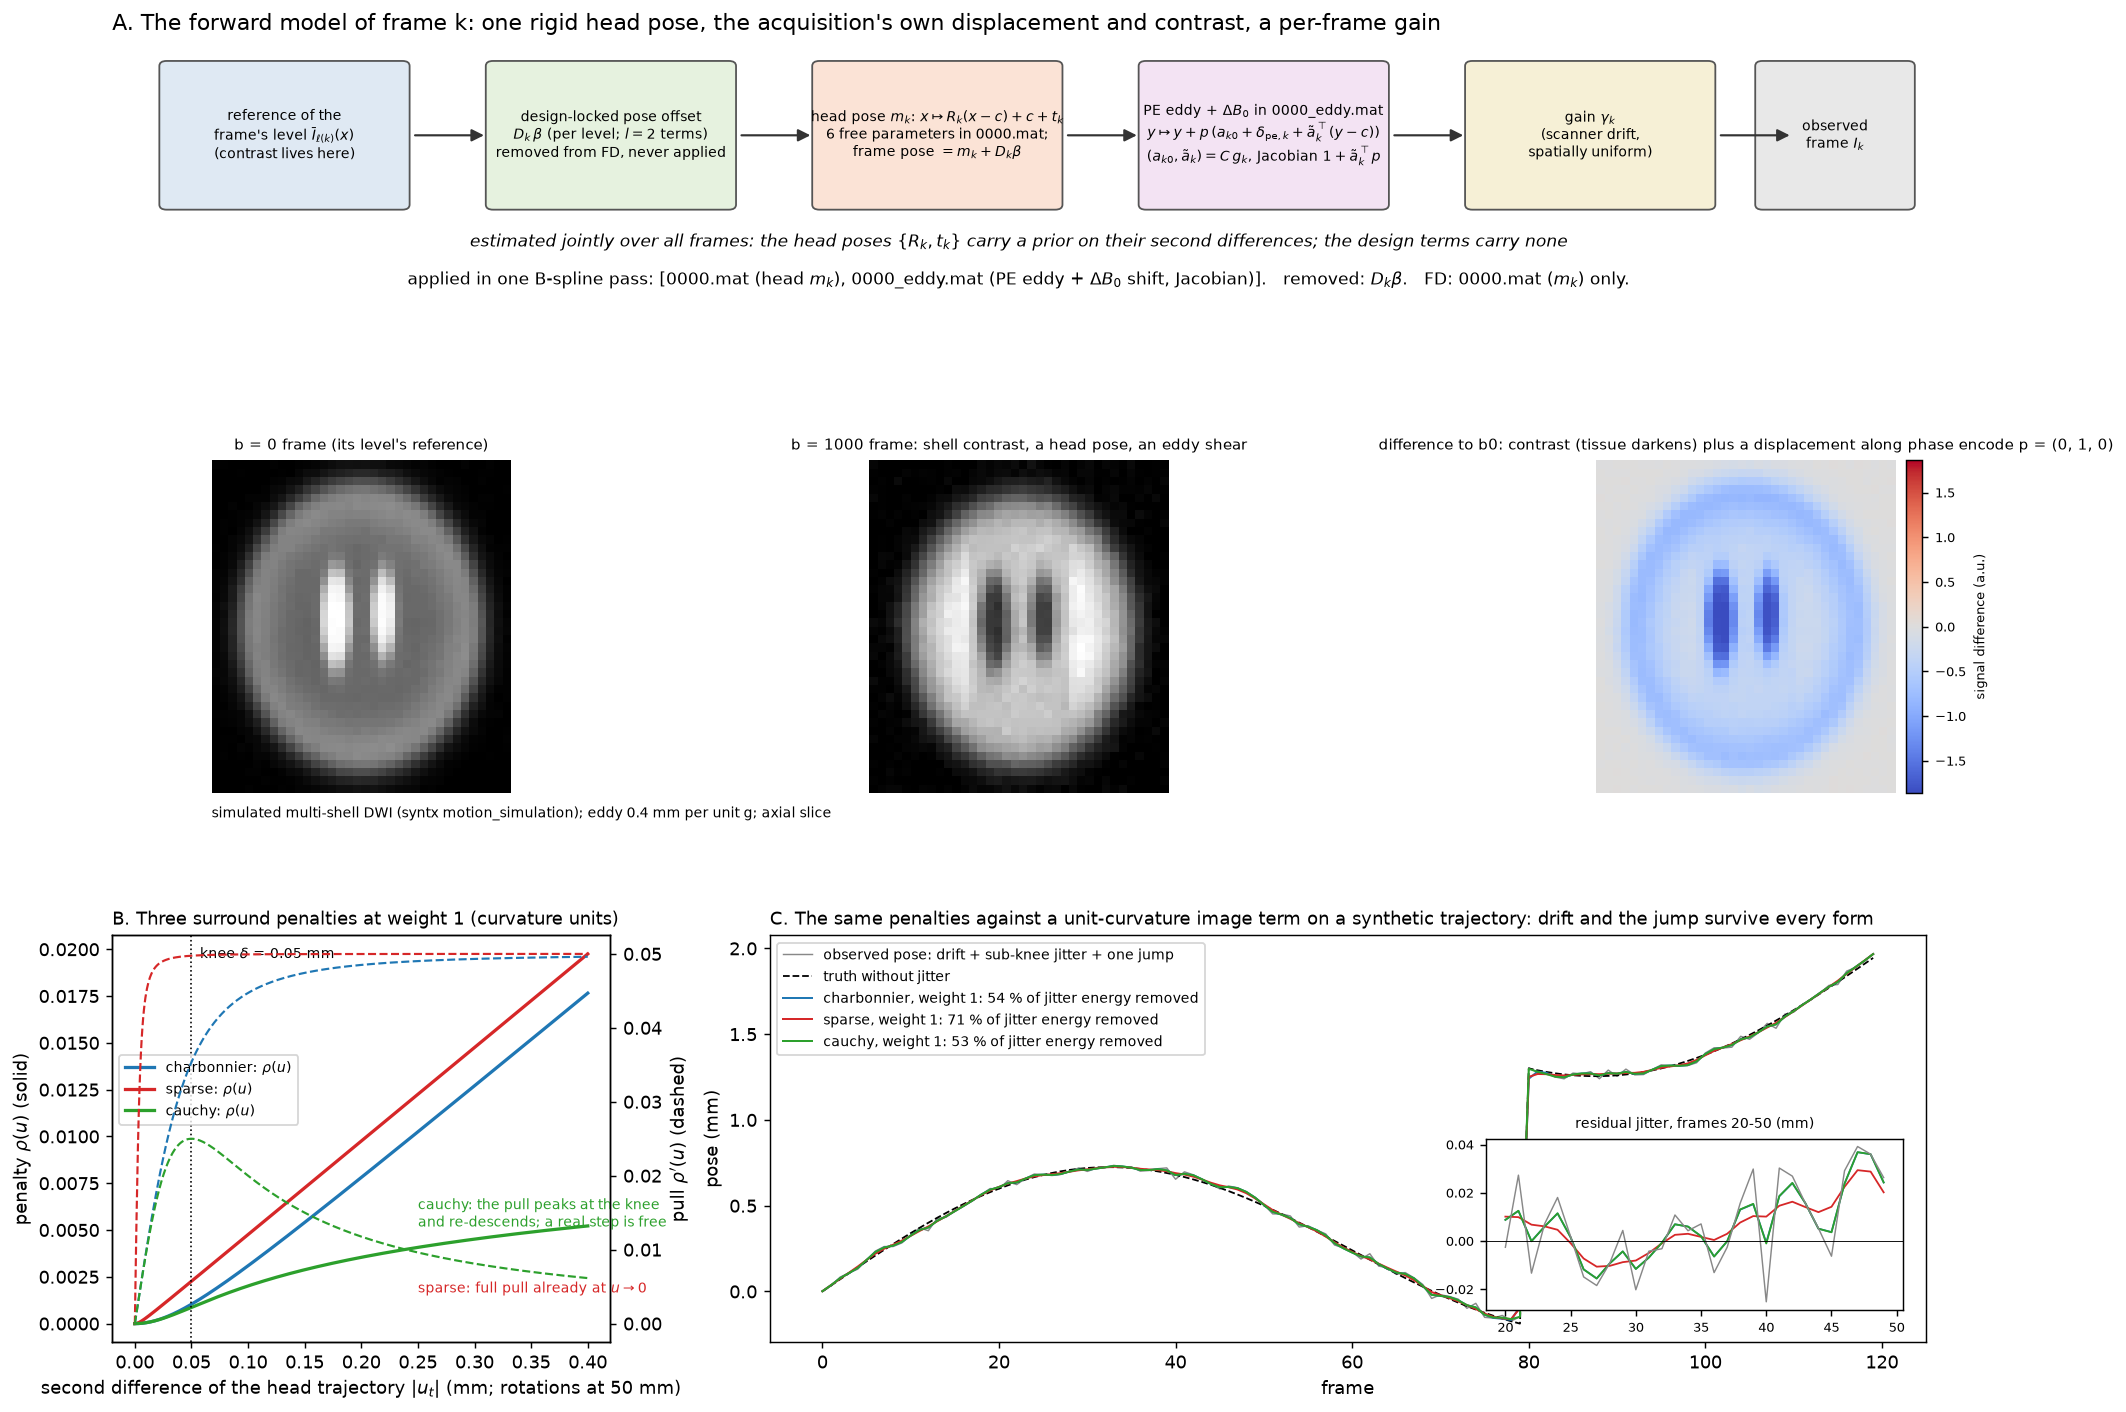
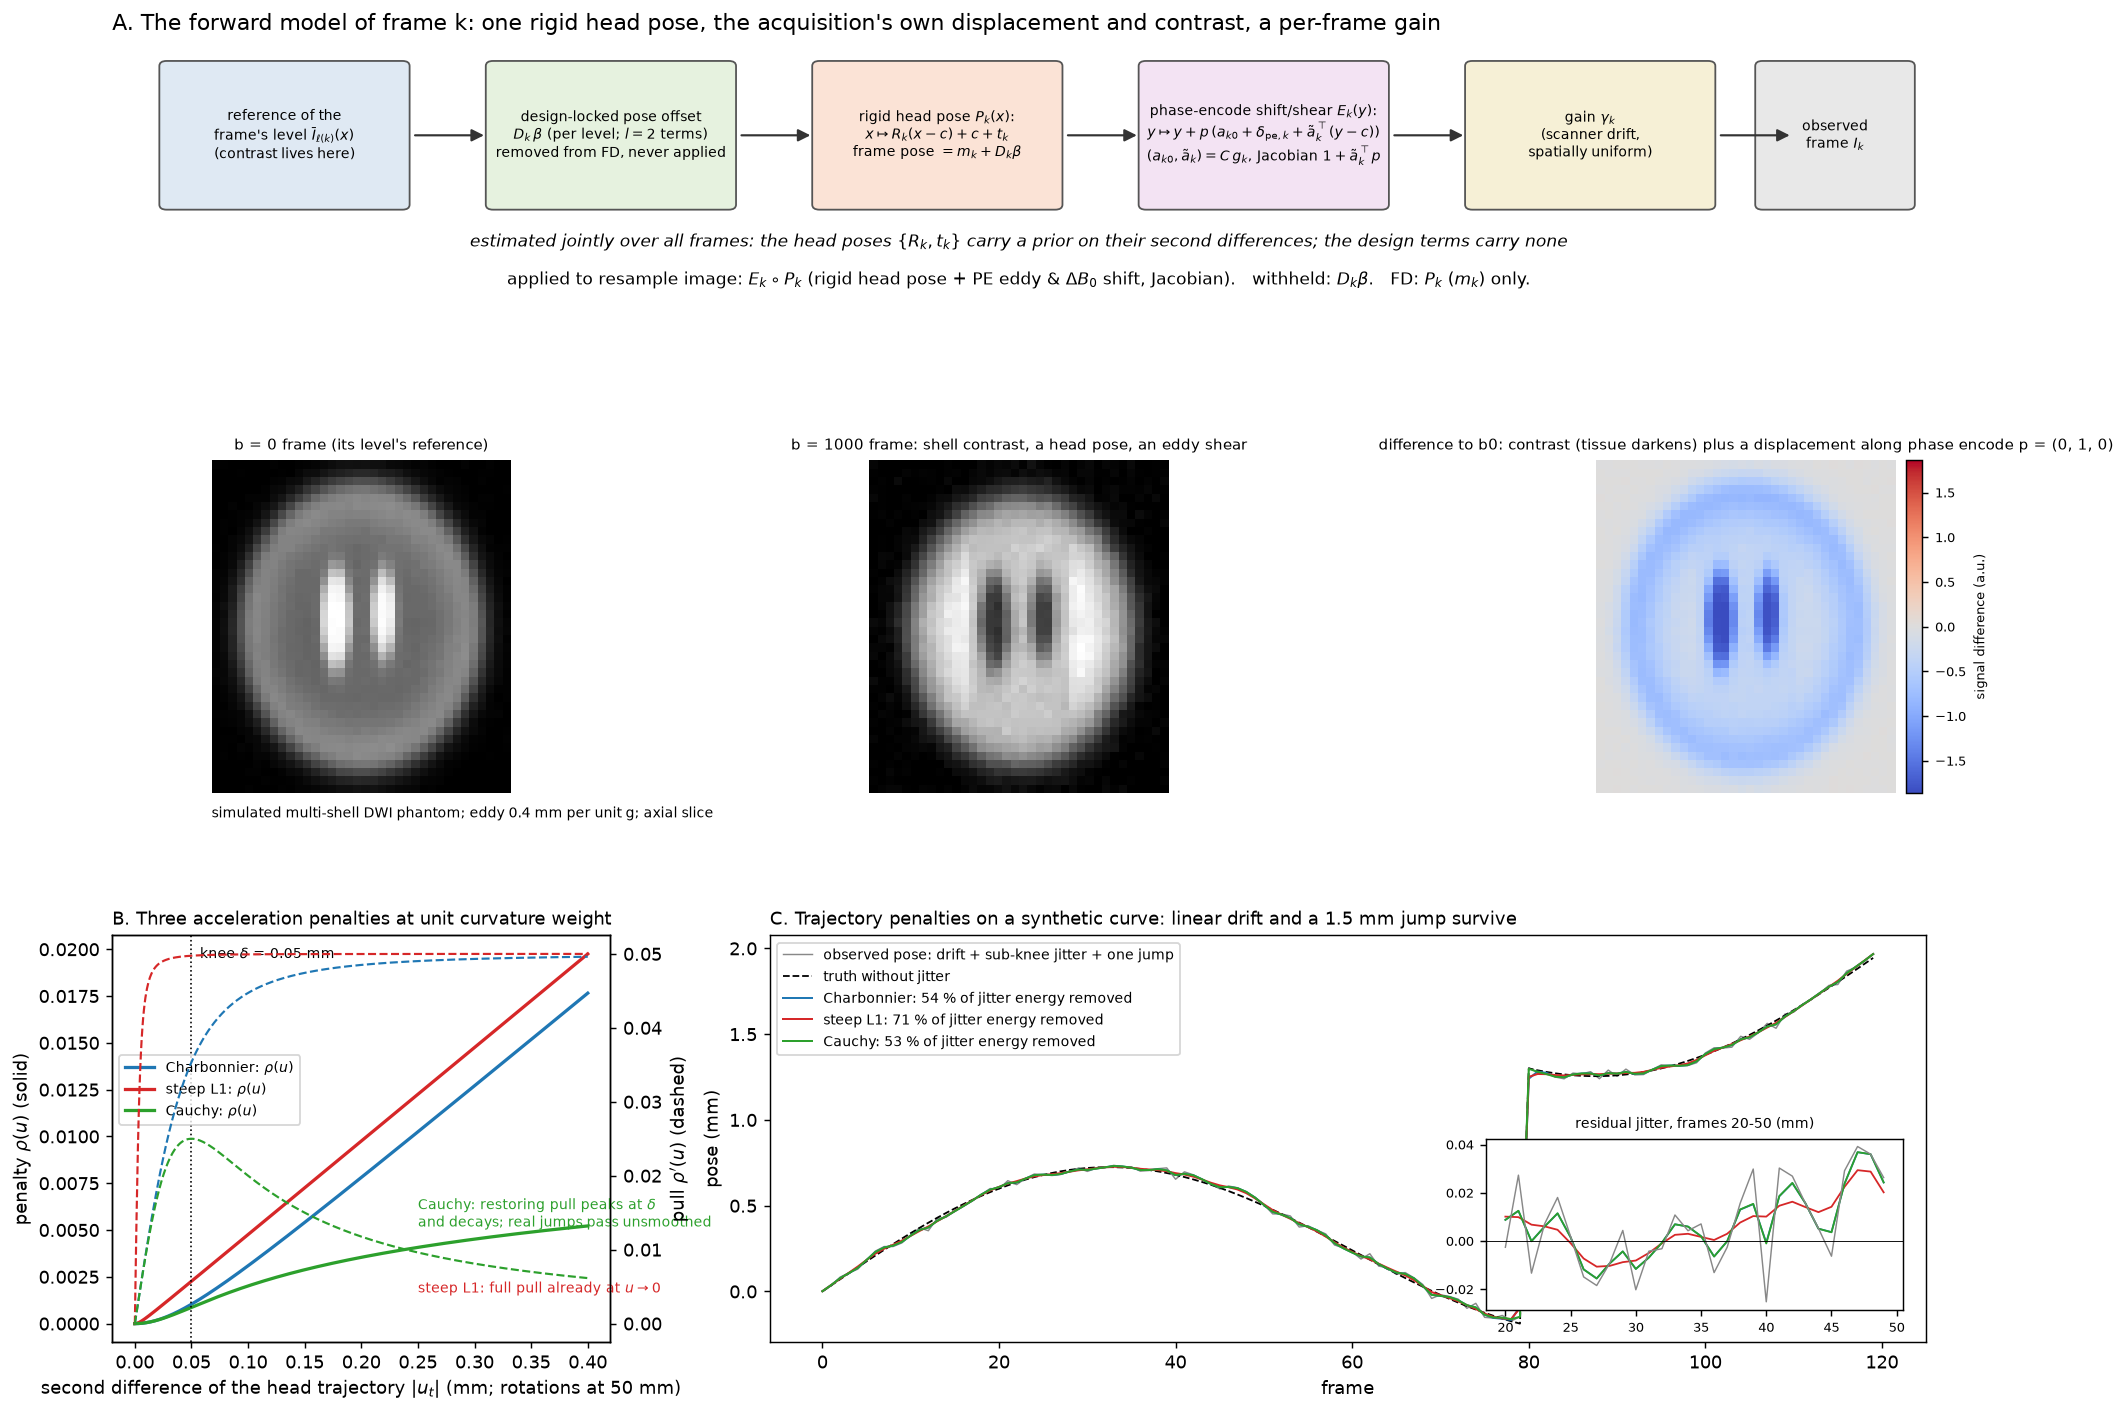
docs(abstract): update ISMRM 2027 visual abstract (Panels 2 & 3) and scientific text

diff --git a/docs/abstracts/ISMRM_2027_motion_solver.tex b/docs/abstracts/ISMRM_2027_motion_solver.tex
@@ -18,7 +18,7 @@
 \renewcommand{\bottomfraction}{0.95}
 \renewcommand{\textfraction}{0.05}
 \renewcommand{\floatpagefraction}{0.85}
-\graphicspath{{/Users/stnava/.gemini/antigravity-cli/brain/0ab59eee-2245-43be-94a0-9224c3d91ae1/}{figures/}{../reports/}{docs/abstracts/figures/}{docs/reports/}}
+\graphicspath{{figures/}{../reports/}{docs/abstracts/figures/}{docs/reports/}}
 
 \title{A single physical objective for BOLD, ASL, diffusion and slow-flow MRI motion correction}
 \author{Brian B. Avants \\ University of Virginia}
@@ -34,7 +34,7 @@
 \caption{\textbf{Joint forward modeling separates true head motion, phase-encode field distortions, and contrast-driven registration bias across four MRI modalities.}
 (1) \textbf{Three confounds in 4D MRI:} Frame-to-frame image changes arise from three distinct physical sources: true 3D rigid motion of the skull ($P_k(x)$, emerald), geometric stretching and shifting of the image along the phase-encode (PE) axis from eddy currents and breathing-induced magnetic field ($\Delta B_0(t)$) fluctuations ($E_k(y)$, cyan), and apparent shifts of the brain's intensity centroid when the pulse sequence switches diffusion shells, diffusion gradient directions, arterial spin labeling (ASL) tag/control states, or flow encodings ($D_k\beta$, amber). Standard single-reference registration conflates all three into false head motion.
 (2) \textbf{Joint objective and physical decomposition:} Each frame $k$ is aligned to the mean image of its own contrast state $\bar I_{\ell(k)}$. Because both rigid head motion $P_k(x)$ and phase-encode field distortion $E_k(y)$ physically displace brain voxels on the recorded image grid, their composition $E_k \circ P_k(x) = E_k(P_k(x))$ is applied in a single cubic B-spline interpolation to produce a sharp, unwarped 4D volume. Only $P_k(x)$ is patient motion, so Framewise Displacement ($\text{FD}(m_k)$) is computed strictly from $P_k$. Contrast-locked offsets $D_k\beta$ reflect tissue contrast changes rather than anatomical movement and are withheld from both the resampled image and $\text{FD}$.
-(3) \textbf{Outlier-tolerant acceleration prior and clinical variance account:} Top: a weak ($w = 0.03$) logarithmic Cauchy penalty on trajectory acceleration $u_t$ damps sub-millimetre noise oscillations below $\delta = 0.05$\,mm and eliminates optimizer oscillation on low-SNR frames ($100\,\%$ convergence), while its restoring force decays toward zero for larger movements so sudden head jumps and slow drift pass unsmoothed. Bottom: across five clinical series, phase-encode field distortions $E_k$ account for 87 to 93\,\% of DWI phase-encode step variance (lowering apparent DWI mean FD from 0.48--0.60\,mm to 0.14--0.15\,mm) and 52 to 56\,\% of BOLD and ASL phase-encode step variance, while contrast bias $D_k\beta$ accounts for 68 to 87\,\% of DWI readout step variance.}
+(3) \textbf{Aligned 4D time series, parameter attribution, and controlled FD:} (A) Applying the composed physical warp $E_k \circ P_k(x)$ while withholding contrast bias $D_k\beta$ sharpens the aligned 4D series, cutting unexplained 4D voxel variance by 33 to 52\,\% (DWI $9.0\,\% \to 4.3\,\%$, ASL $2.4\,\% \to 1.2\,\%$), increasing DWI shell sharpness by 3 to 12\,\%, and raising low-SNR frame convergence from 81--85\,\% to 100\,\% under the weak ($w = 0.03$) Cauchy acceleration prior. (B) Frame-by-frame trajectory decomposition on clinical multi-shell DWI ($T = 100$) separates large phase-encode eddy and $\Delta B_0(t)$ swings ($E_k$, cyan, 87--93\,\% of DWI PE and 52--56\,\% of BOLD/ASL PE step variance) and direction/shell contrast shifts ($D_k\beta$, amber, 68--87\,\% of DWI readout step variance) from the smooth rigid head pose ($P_k$, emerald). (C) Computing $\text{FD}$ strictly from $P_k$ reduces apparent DWI mean FD from $0.60$\,mm ($44\,\%$ falsely censored above $0.50$\,mm) to $0.14$\,mm ($0\,\%$ censored), while respiratory-notched $\text{FD}_{\text{bandlimited}}$ on 1\,s BOLD reduces mean FD from $0.55$\,mm ($38\,\%$ censored) to $0.28$\,mm ($11\,\%$ censored).}
 \label{fig:visual_abstract}
 \end{figure}
 

diff --git a/docs/abstracts/ISMRM_2027_motion_solver.md b/docs/abstracts/ISMRM_2027_motion_solver.md
@@ -4,7 +4,7 @@
 
 ![Visual Abstract: Joint forward modeling separates true head motion, phase-encode field distortions, and contrast-driven registration bias across four MRI modalities.](figures/ismrm_fig0_visual_abstract.png)
 
-**Figure 0 (Visual Abstract).** **(1) Three confounds in 4D MRI:** Frame-to-frame image changes arise from three distinct physical sources: true 3D rigid motion of the skull ($P_k(x)$, emerald), geometric stretching and shifting of the image along the phase-encode (PE) axis from eddy currents and breathing-induced magnetic field ($\Delta B_0(t)$) fluctuations ($E_k(y)$, cyan), and apparent shifts of the brain's intensity centroid when the pulse sequence switches diffusion shells, diffusion gradient directions, arterial spin labeling (ASL) tag/control states, or flow encodings ($D_k\beta$, amber). Standard single-reference registration conflates all three into false head motion. **(2) Joint objective and physical decomposition:** Each frame $k$ is aligned to the mean image of its own contrast state $\bar I_{\ell(k)}$. Because both rigid head motion $P_k(x)$ and phase-encode field distortion $E_k(y)$ physically displace brain voxels on the recorded image grid, their composition $E_k \circ P_k(x) = E_k(P_k(x))$ is applied in a single cubic B-spline interpolation to produce a sharp, unwarped 4D volume. Only $P_k(x)$ is patient motion, so Framewise Displacement ($\text{FD}(m_k)$) is computed strictly from $P_k$. Contrast-locked offsets $D_k\beta$ reflect tissue contrast changes rather than anatomical movement and are withheld from both the resampled image and $\text{FD}$. **(3) Outlier-tolerant acceleration prior and clinical variance account:** Top: a weak ($w = 0.03$) logarithmic Cauchy penalty on trajectory acceleration $u_t$ damps sub-millimetre noise oscillations below $\delta = 0.05\text{ mm}$ and eliminates optimizer oscillation on low-SNR frames ($100\%$ convergence), while its restoring force decays toward zero for larger movements so sudden head jumps and slow drift pass unsmoothed. Bottom: across five clinical series, phase-encode field distortions $E_k$ account for 87 to 93% of DWI phase-encode step variance (lowering apparent DWI mean FD from 0.48–0.60 mm to 0.14–0.15 mm) and 52 to 56% of BOLD and ASL phase-encode step variance, while contrast bias $D_k\beta$ accounts for 68 to 87% of DWI readout step variance.
+**Figure 0 (Visual Abstract).** **(1) Three confounds in 4D MRI:** Frame-to-frame image changes arise from three distinct physical sources: true 3D rigid motion of the skull ($P_k(x)$, emerald), geometric stretching and shifting of the image along the phase-encode (PE) axis from eddy currents and breathing-induced magnetic field ($\Delta B_0(t)$) fluctuations ($E_k(y)$, cyan), and apparent shifts of the brain's intensity centroid when the pulse sequence switches diffusion shells, diffusion gradient directions, arterial spin labeling (ASL) tag/control states, or flow encodings ($D_k\beta$, amber). Standard single-reference registration conflates all three into false head motion. **(2) Joint objective and physical decomposition:** Each frame $k$ is aligned to the mean image of its own contrast state $\bar I_{\ell(k)}$. Because both rigid head motion $P_k(x)$ and phase-encode field distortion $E_k(y)$ physically displace brain voxels on the recorded image grid, their composition $E_k \circ P_k(x) = E_k(P_k(x))$ is applied in a single cubic B-spline interpolation to produce a sharp, unwarped 4D volume. Only $P_k(x)$ is patient motion, so Framewise Displacement ($\text{FD}(m_k)$) is computed strictly from $P_k$. Contrast-locked offsets $D_k\beta$ reflect tissue contrast changes rather than anatomical movement and are withheld from both the resampled image and $\text{FD}$. **(3) Aligned 4D time series, parameter attribution, and controlled FD:** (A) Applying the composed physical warp $E_k \circ P_k(x)$ while withholding contrast bias $D_k\beta$ sharpens the aligned 4D series, cutting unexplained 4D voxel variance by 33 to 52% (DWI $9.0\% \to 4.3\%$, ASL $2.4\% \to 1.2\%$), increasing DWI shell sharpness by 3 to 12%, and raising low-SNR frame convergence from 81–85% to 100% under the weak ($w = 0.03$) Cauchy acceleration prior. (B) Frame-by-frame trajectory decomposition on clinical multi-shell DWI ($T = 100$) separates large phase-encode eddy and $\Delta B_0(t)$ swings ($E_k$, cyan, 87–93% of DWI PE and 52–56% of BOLD/ASL PE step variance) and direction/shell contrast shifts ($D_k\beta$, amber, 68–87% of DWI readout step variance) from the smooth rigid head pose ($P_k$, emerald). (C) Computing $\text{FD}$ strictly from $P_k$ reduces apparent DWI mean FD from $0.60\text{ mm}$ ($44\%$ falsely censored above $0.50\text{ mm}$) to $0.14\text{ mm}$ ($0\%$ censored), while respiratory-notched $\text{FD}_{\text{bandlimited}}$ on 1 s BOLD reduces mean FD from $0.55\text{ mm}$ ($38\%$ censored) to $0.28\text{ mm}$ ($11\%$ censored).
 
 ---
 
